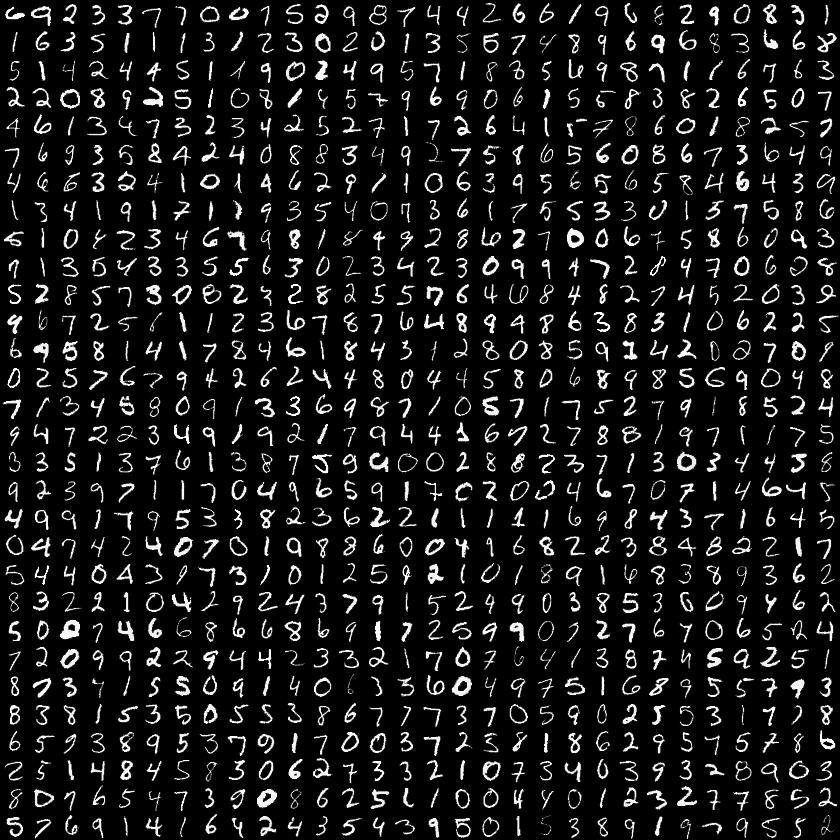
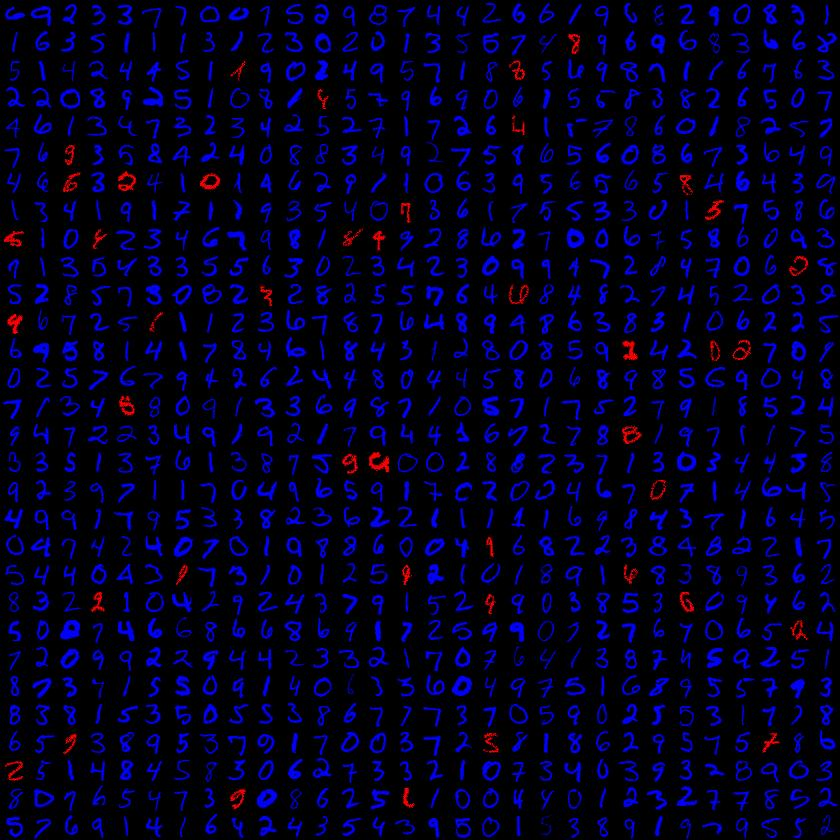
10060_Colorising_the_Images

Changed region(s): [[0.0, 0.0, 1.0, 1.0]]

diff --git a/src/main/java/cave/neuralnetwork/loader/image/ImageWriter.java b/src/main/java/cave/neuralnetwork/loader/image/ImageWriter.java
@@ -94,7 +94,7 @@ public class ImageWriter {
 			String montagePath = String.format("montage%d.jpg", i);
 			System.out.println("Writig " + montagePath);
 			
-			var montage = new BufferedImage(canvasWidth, canvasHeight, BufferedImage.TYPE_BYTE_GRAY);
+			var montage = new BufferedImage(canvasWidth, canvasHeight, BufferedImage.TYPE_INT_RGB);
 			
 			double[] pixelData = batchData.getInputBatch();
 			double[] labelData = batchData.getExpectedBatch();
@@ -131,7 +131,14 @@ public class ImageWriter {
 				
 				double pixelValue = pixelData[pixelIndex];
 				int color = (int)(0x100 * pixelValue);
-				int pixelColor = (color << 18) + (color << 8) + color;
+				int pixelColor = 0;
+				
+				if(correct[imageNumber]) {
+					pixelColor = color;
+				}
+				else {
+					pixelColor = (color << 18);
+				}
 				
 				montage.setRGB(x, y, pixelColor);
 			}
